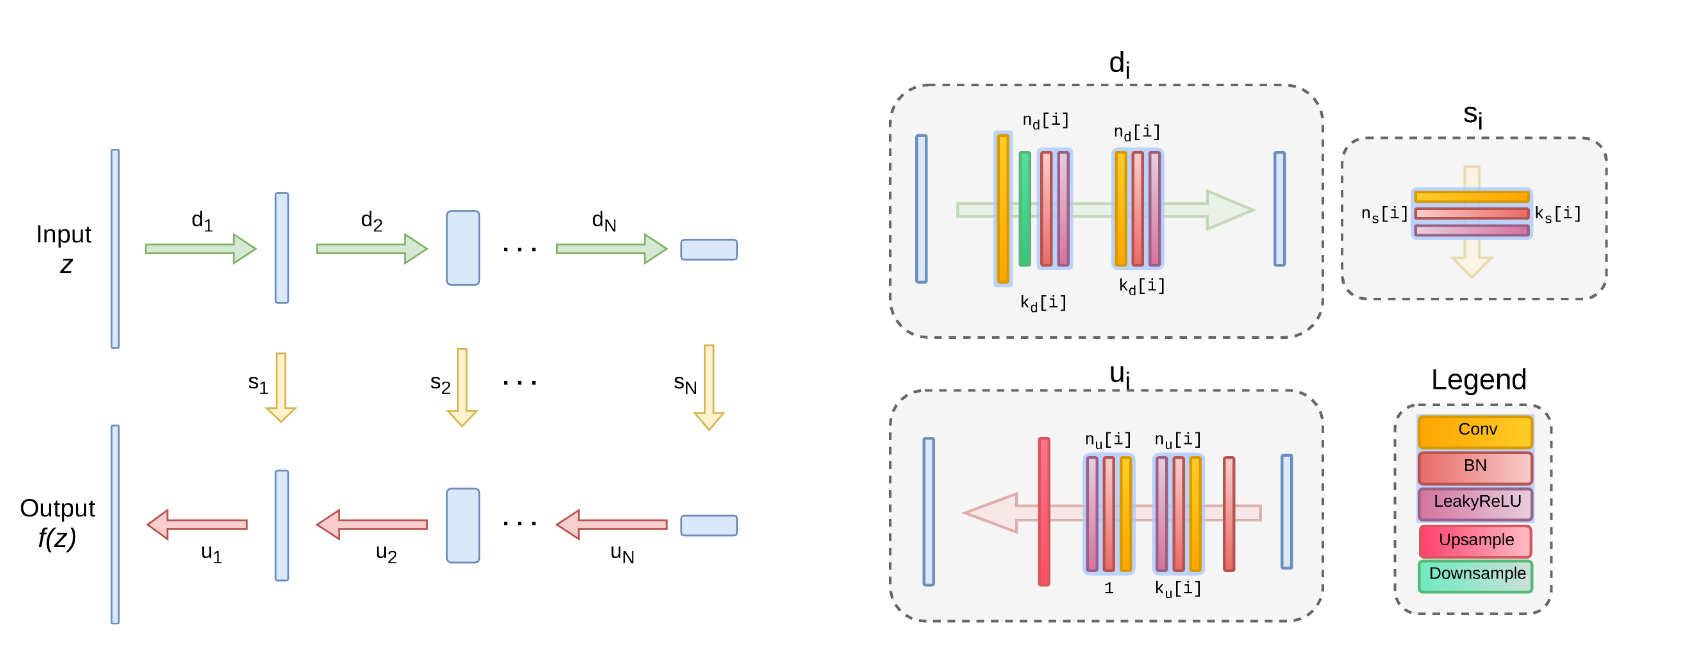
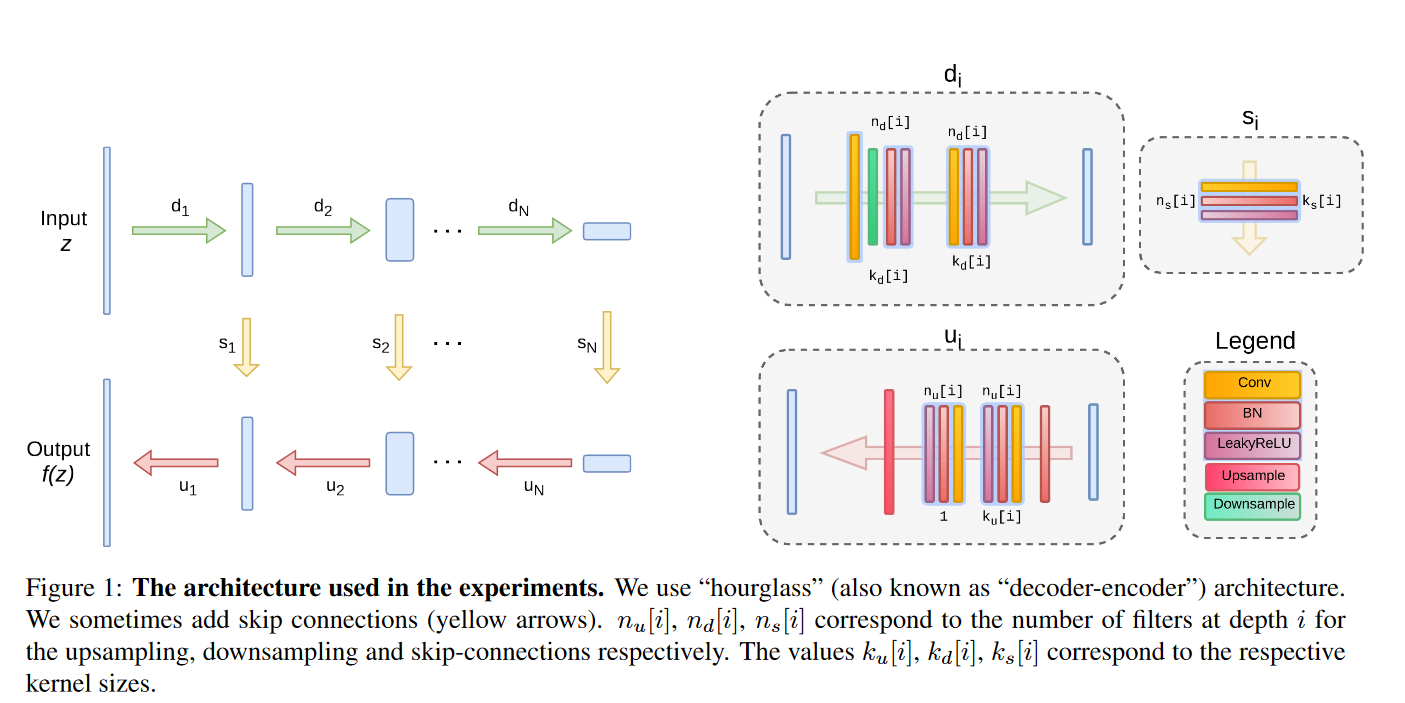
Update README.md with architecture and parameter

diff --git a/README.md b/README.md
@@ -10,25 +10,53 @@ The goal of this project is to reproduce [Figure 7](https://arxiv.org/pdf/1711.1
       instead of training it on a huge dataset, they fit a generator network to a single degraded image. They highly
        emphasize that the only information required to solve image restoration problems is contained in the single
         degraded input image they have given as input, and the handcrafted structure of the network.
-        
-## Architecture
+
+## A Few Formulae 
+Neural networks usually used in practice, specifically trained networks which first learn from date and then are applied to solve image tasks 
+use $$x=f_\theta(z)$$, where $$x$$ is an image which is mapped to a random code vector $$z$$. The network described in this paper
+ captures the information learnt solely on the basis of its architecture, without learning any of its parameters. This is done by
+  considering the network itself as a parameterization of the input image.
+    
+Image restoration tasks can be formulated as minimizing the term $$x^* = \min_{x} E(x; x_0) + R(x)$$ where $$ E(x; x_0) $$ is a task-dependent
+ data term, $$x_0$$ is the corrupted image and $$R(x)$$ is the regularizer. This regularizer is replaced with the implicit prior captured 
+  by the network as $$\theta^* = argmin_{x} E(f_\theta(z); x_0)$$ consequently formulating the problem as $$x^* = f_\theta^*(z)$$
+
+## Playing Architect
 This paper uses a handcrafted encoder-decoder architecture with skip connections as shown in [Figure 1](#Skip-Architecture) 
-which was provided in the [supplementary material](https://box.skoltech.ru/index.php/s/ib52BOoV58ztuPM#pdfviewer).
+ as given in the [supplementary material](https://box.skoltech.ru/index.php/s/ib52BOoV58ztuPM#pdfviewer).
 
 ![Skip-Architecture](/assets/skip_architecture.png)
 
-We can see that the architecture is similar to a U-net "hourglass" architecture, where the input of the network _z_ has 
- the same spatial resolution as the output of the image _f(z)_. The optimal results can be obtained when the network is 
-  carefully tuned to a particular task, hence the parameters and the architecture differs a little for each task. **Insert math about architecture**
-  $$\forall x \in R$$
+The architecture is based on a U-net "hourglass",  and is a fully-convolutional encoder-decoder architecture, where the input of the network _z_ has 
+ the same spatial resolution as the output of the image _f(z)_. LeakyRELU is used as a non-linearity, and the downsampling method technique used is strides, 
+  implemented within the convoltuional modules. Upsampling operation is nearest neighbour upsampling for the inpainting application, and bilinear for image restoration.
+   We have used reflective padding in all the convolutional layers. For the input $$z$$ we have generated noise randomly using Bernoulli sampling, and for the 
+    optimization process, we have used the _ADAM_ optimizer. The optimal results can be obtained when the network is carefully 
+     tuned to a particular task, and so clearly the parameters and the architecture will differ for each task. 
   
- ## Parameters
- 
- The authors have given the hyperparameters they have used in the implementation of their code, but there is a discrepancy 
+## Man the Parameters
+
+The authors have given the hyperparameters they have used in the implementation of their code, but there is a discrepancy 
  between the parameters they have provided in the supplementary material and the ones they have used in the code. 
-  (We have tested our code with both the sets of hyperparameters and did not find any significant difference.) **Insert hyperparameters**
+  (We have tested our code with both the sets of hyperparameters and did not find any significant difference.) The standard 
+   architecture uses the following set of hyperparameters: <br /> <br />
+   $$\boxed{
+   z \in \mathbb{R}^{32xHxW} \sim U(0, \frac{1}{10}) \\
+   n_u = n_d = [128, 128, 128, 128, 128] \\
+   k_u = k_d = [3, 3, 3, 3, 3] \\
+   n_s = [4, 4, 4, 4, 4] \\
+   k_s = [1, 1, 1, 1, 1] \\
+   \sigma_p = \frac{1}{30} \\
+   num_iter = 2000 \\
+   LR = 0.01 \\
+   upsampling = bilinear
+   }
+   $$
   
-## Replication
+## Glorified Copy-Paste
+
+### Architecture
+
 ### Inpainting
 
 ### Image Restoration
